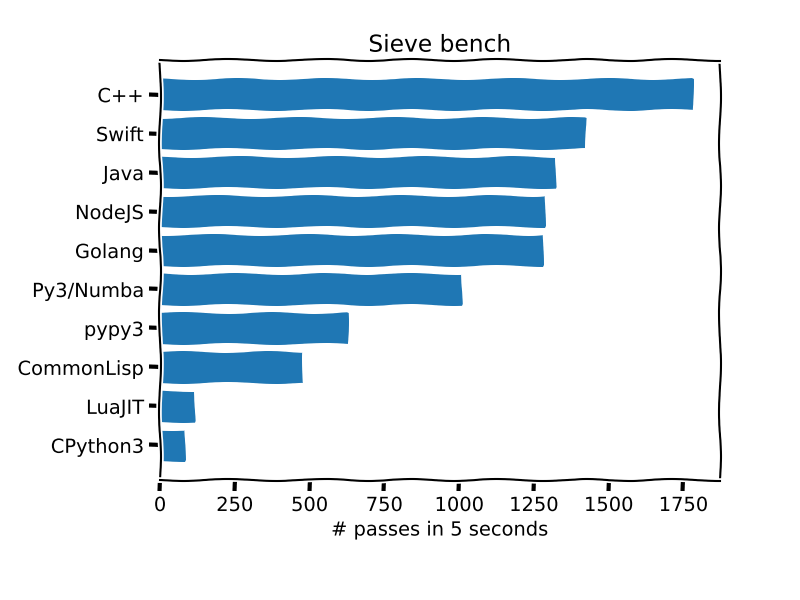
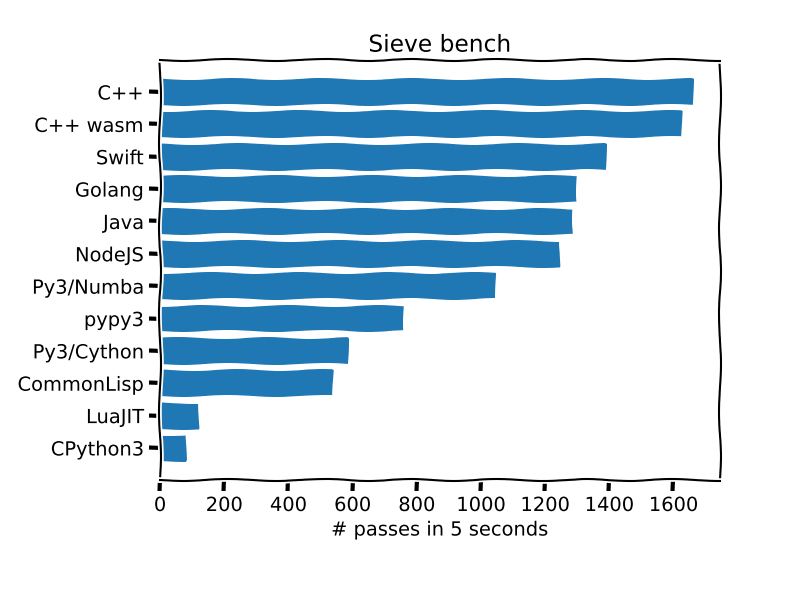
deploy: b0223a3a4a887e8836d3c13523c558822edc4d40

diff --git a/results/index.html b/results/index.html
@@ -276,97 +276,75 @@
 <h1 id="raw-results">Raw Results</h1>
 <p>Code executed on GitHub Actions. Plot and raw results are below.</p>
 <p><img alt="plot" src="../plot1.png" /></p>
-<pre><code>Distributor ID: Ubuntu
+<pre><code>Sun Aug  7 19:10:53 UTC 2022
+
+Distributor ID: Ubuntu
 Description:    Ubuntu 20.04.4 LTS
 Release:    20.04
 Codename:   focal
 
-Linux fv-az47-109 5.15.0-1014-azure #17~20.04.1-Ubuntu SMP Thu Jun 23 20:01:51 UTC 2022 x86_64 x86_64 x86_64 GNU/Linux
+Linux fv-az540-229 5.15.0-1014-azure #17~20.04.1-Ubuntu SMP Thu Jun 23 20:01:51 UTC 2022 x86_64 x86_64 x86_64 GNU/Linux
 
 
-1783
+1662
 C++
 g++ (Ubuntu 9.4.0-1ubuntu1~20.04.1) 9.4.0
 Copyright (C) 2019 Free Software Foundation, Inc.
 This is free software; see the source for copying conditions.  There is NO
 warranty; not even for MERCHANTABILITY or FITNESS FOR A PARTICULAR PURPOSE.
 
-
-1544
+1627
 C++ wasm
 emcc (Emscripten gcc/clang-like replacement + linker emulating GNU ld) 3.1.18 (d5ca9bba6513763d5bdddbd0efff759332bd85d7)
 Copyright (C) 2014 the Emscripten authors (see AUTHORS.txt)
 This is free and open source software under the MIT license.
 There is NO warranty; not even for MERCHANTABILITY or FITNESS FOR A PARTICULAR PURPOSE.
 
-1425
+1389
 Swift
 Swift version 5.6.2 (swift-5.6.2-RELEASE)
 Target: x86_64-unknown-linux-gnu
 
-1325
+1301
+Golang
+go version go1.13.8 linux/amd64
+
+1287
 Java
 openjdk 11.0.16 2022-07-19
 OpenJDK Runtime Environment Temurin-11.0.16+8 (build 11.0.16+8)
 OpenJDK 64-Bit Server VM Temurin-11.0.16+8 (build 11.0.16+8, mixed mode)
 
-1288
+1247
 NodeJS
 v16.16.0
 
-1281
-Golang
-go version go1.13.8 linux/amd64
-
-83
-CPython3
-Python 3.8.10
-
-1009
+1048
 Py3/Numba
 Python 3.8.10
 Numba 0.56.0
 
-630
+759
 pypy3
 Python 3.6.9 (7.3.1+dfsg-4, Apr 22 2020, 05:15:29)
 [PyPy 7.3.1 with GCC 9.3.0]
 
-83
-CPython3
+587
+Py3/Cython
+Cython 0.29.32
 Python 3.8.10
 
-1009
-Py3/Numba
-Python 3.8.10
-Numba 0.56.0
-
-630
-pypy3
-Python 3.6.9 (7.3.1+dfsg-4, Apr 22 2020, 05:15:29)
-[PyPy 7.3.1 with GCC 9.3.0]
-
-477
+538
 CommonLisp
 SBCL 2.0.1.debian
 
-118
+122
 LuaJIT
 LuaJIT 2.1.0-beta3 -- Copyright (C) 2005-2017 Mike Pall. http://luajit.org/
 
-83
+82
 CPython3
 Python 3.8.10
-
-1009
-Py3/Numba
-Python 3.8.10
-Numba 0.56.0
-
-630
-pypy3
-Python 3.6.9 (7.3.1+dfsg-4, Apr 22 2020, 05:15:29)
-[PyPy 7.3.1 with GCC 9.3.0]
 </code></pre>
 
               
